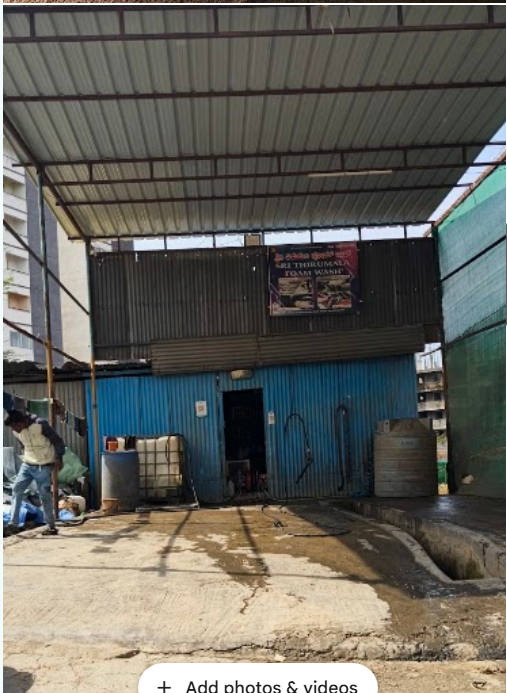
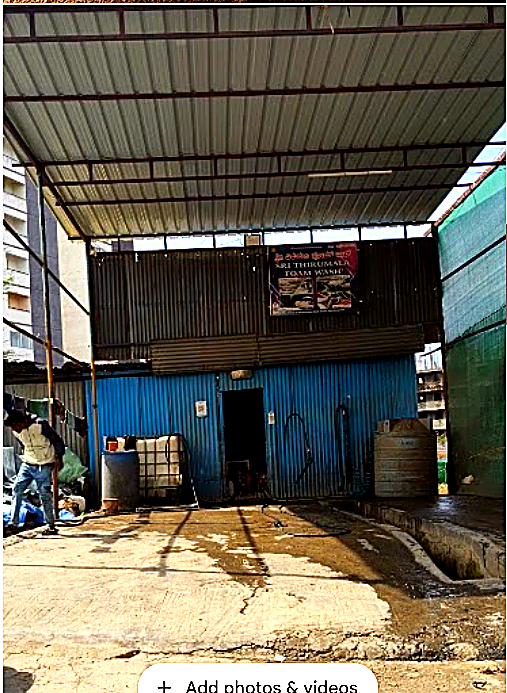
feat: enhance quality, sharpness, and color grading of About section studio image

diff --git a/src/components/HeroFeatureCards.tsx b/src/components/HeroFeatureCards.tsx
@@ -43,11 +43,11 @@ export const HeroFeatureCards: React.FC<AboutSectionProps> = ({ onOpenBooking })
           
           {/* LEFT: Large Premium Car Detailing Image */}
           <div className="lg:col-span-6 relative">
-            <div className="relative rounded-3xl overflow-hidden border border-slate-200 shadow-xl bg-slate-100 group">
+            <div className="relative rounded-3xl overflow-hidden border border-slate-200 shadow-2xl bg-slate-100 group ring-1 ring-black/5">
               <img
                 src="/images/foam/about-showcase.png"
                 alt="Sri Thirumala Foam Wash - Professional Active Foam Bath"
-                className="w-full h-[380px] sm:h-[480px] object-cover object-center group-hover:scale-104 transition-transform duration-700"
+                className="w-full h-[380px] sm:h-[480px] object-cover object-center contrast-[1.05] saturate-[1.12] brightness-[1.02] group-hover:scale-104 transition-transform duration-700"
               />
               
               {/* Subtle gradient overlay */}
